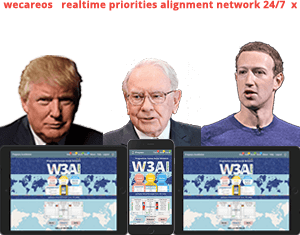
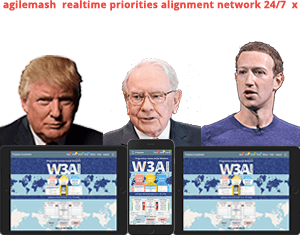
changed title to agilemash for .net

Changed region(s): [[0.0, 0.0, 0.99, 0.0596], [0.48, 0.7745, 0.51, 0.8043]]

diff --git a/src/app/navigation/header/header.component.ts b/src/app/navigation/header/header.component.ts
@@ -16,7 +16,7 @@ import { SetupService } from '../../setup.service';
 export class HeaderComponent implements OnInit {
   @Output() sidenavToggle = new EventEmitter<void>();
   isAuth$: Observable<boolean>;
-  appTitle = 'we care 24/7';
+  appTitle = 'agilemash';
 
   constructor(private store: Store<fromRoot.State>, 
               private authService: AuthService,

diff --git a/src/app/navigation/header/header.component.html b/src/app/navigation/header/header.component.html
@@ -10,7 +10,7 @@
 <section class="toolbar-text" fxFlex>
 
     <div fxFlex fxLayout fxLayoutAlign="flex-start" fxHide.gt-sm>
-        <a routerLink="/">i care 365</a>
+        <a routerLink="/">agilemash</a>
     </div>
 
     <div xFlex fxLayout fxLayoutAlign="flex-start" fxHide.lt-md>

diff --git a/src/index.html b/src/index.html
@@ -2,7 +2,7 @@
 <html lang="en">
 <head>
   <meta charset="utf-8">
-  <title>we care 24/7 OS</title>
+  <title>agilemash OS</title>
   <base href="/">
 
   <meta name="viewport" content="width=device-width, initial-scale=1">
